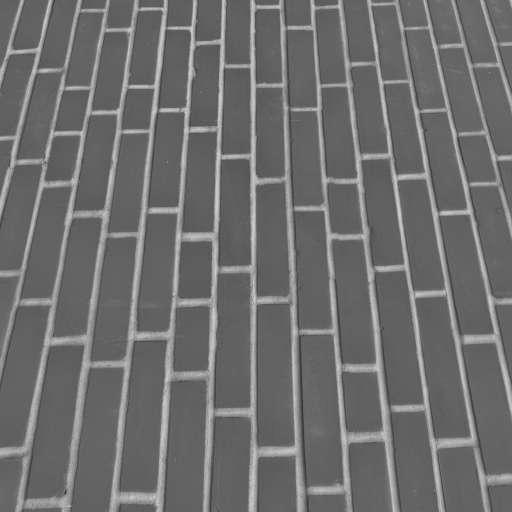
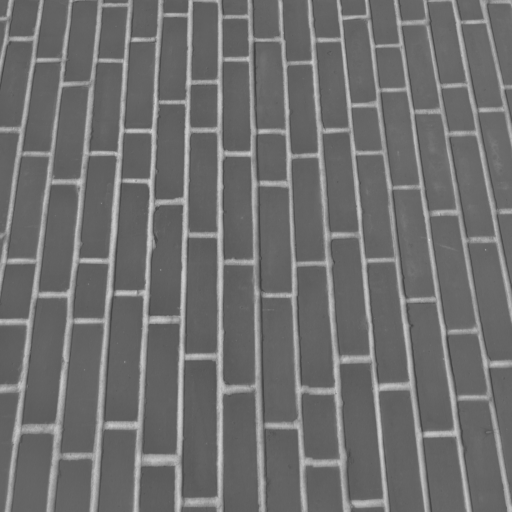
Add reproduction code for brick

diff --git a/skimage/data/__init__.py b/skimage/data/__init__.py
@@ -111,11 +111,55 @@ def brick():
     `CC0Textures <https://cc0textures.com/view.php?tex=Bricks25>` and licensed
     under the Creative Commons CC0 License.
 
-    The downloaded image was then imported into GIMP, rotated by 90 degrees,
-    and a perspective transform was also applied. Finally, the color image was
-    converted to grayscale in GIMP and cropped to include a region the size of
-    ``(1024, 1024)`` and rescaled to ``(512, 512)`` pixels prior to saving the
-    result in PNG format.
+    A perspective transform was then applied to the image, prior to
+    rotating it by 90 degrees, cropping and scaling it to obtain the final
+    image.
+
+    Notes
+    -----
+
+    The following code was used to obtain the final image.
+
+    >> import sys; print(sys.version)
+    >> import platform; print(platform.platform())
+    >> import skimage; print(f"scikit-image version: {skimage.__version__}")
+    >> import numpy; print(f"numpy version: {numpy.__version__}")
+    >> import imageio; print(f"imageio version {imageio.__version__}")
+    3.7.3 | packaged by conda-forge | (default, Jul  1 2019, 21:52:21)
+    [GCC 7.3.0]
+    Linux-5.0.0-20-generic-x86_64-with-debian-buster-sid
+    scikit-image version: 0.16.dev0
+    numpy version: 1.16.4
+    imageio version 2.4.1
+
+    >> import requests
+    >> import zipfile
+    >> url = 'https://cdn.struffelproductions.com/file/cc0textures/Bricks25/%5B2K%5DBricks25.zip'
+    >> r = requests.get(url)
+    >> with open('[2K]Bricks25.zip', 'bw') as f:
+    ..     f.write(r.content)
+    >> with zipfile.ZipFile('[2K]Bricks25.zip') as z:
+    .. z.extract('Bricks25_col.jpg')
+
+    >> from numpy.linalg import inv
+    >> from skimage.transform import rescale, warp, rotate
+    >> from skimage.color import rgb2gray
+    >> from imageio import imread, imwrite
+    >> from skimage import img_as_ubyte
+    >> import numpy as np
+
+
+    >> # Obtained playing around with GIMP 2.10 with their perspective tool
+    >> H = inv(np.asarray([[ 0.54764, -0.00219, 0],
+    ..                     [-0.12822,  0.54688, 0],
+    ..                     [-0.00022,        0, 1]]))
+
+
+    >> brick_orig = imread('Bricks25_col.jpg')
+    >> brick = warp(brick_orig, H)
+    >> brick = rescale(brick[:1024, :1024], (0.5, 0.5, 1))
+    >> brick = rotate(brick, -90)
+    >> imwrite('brick.png', img_as_ubyte(rgb2gray(brick)))
 
     Returns
     -------
